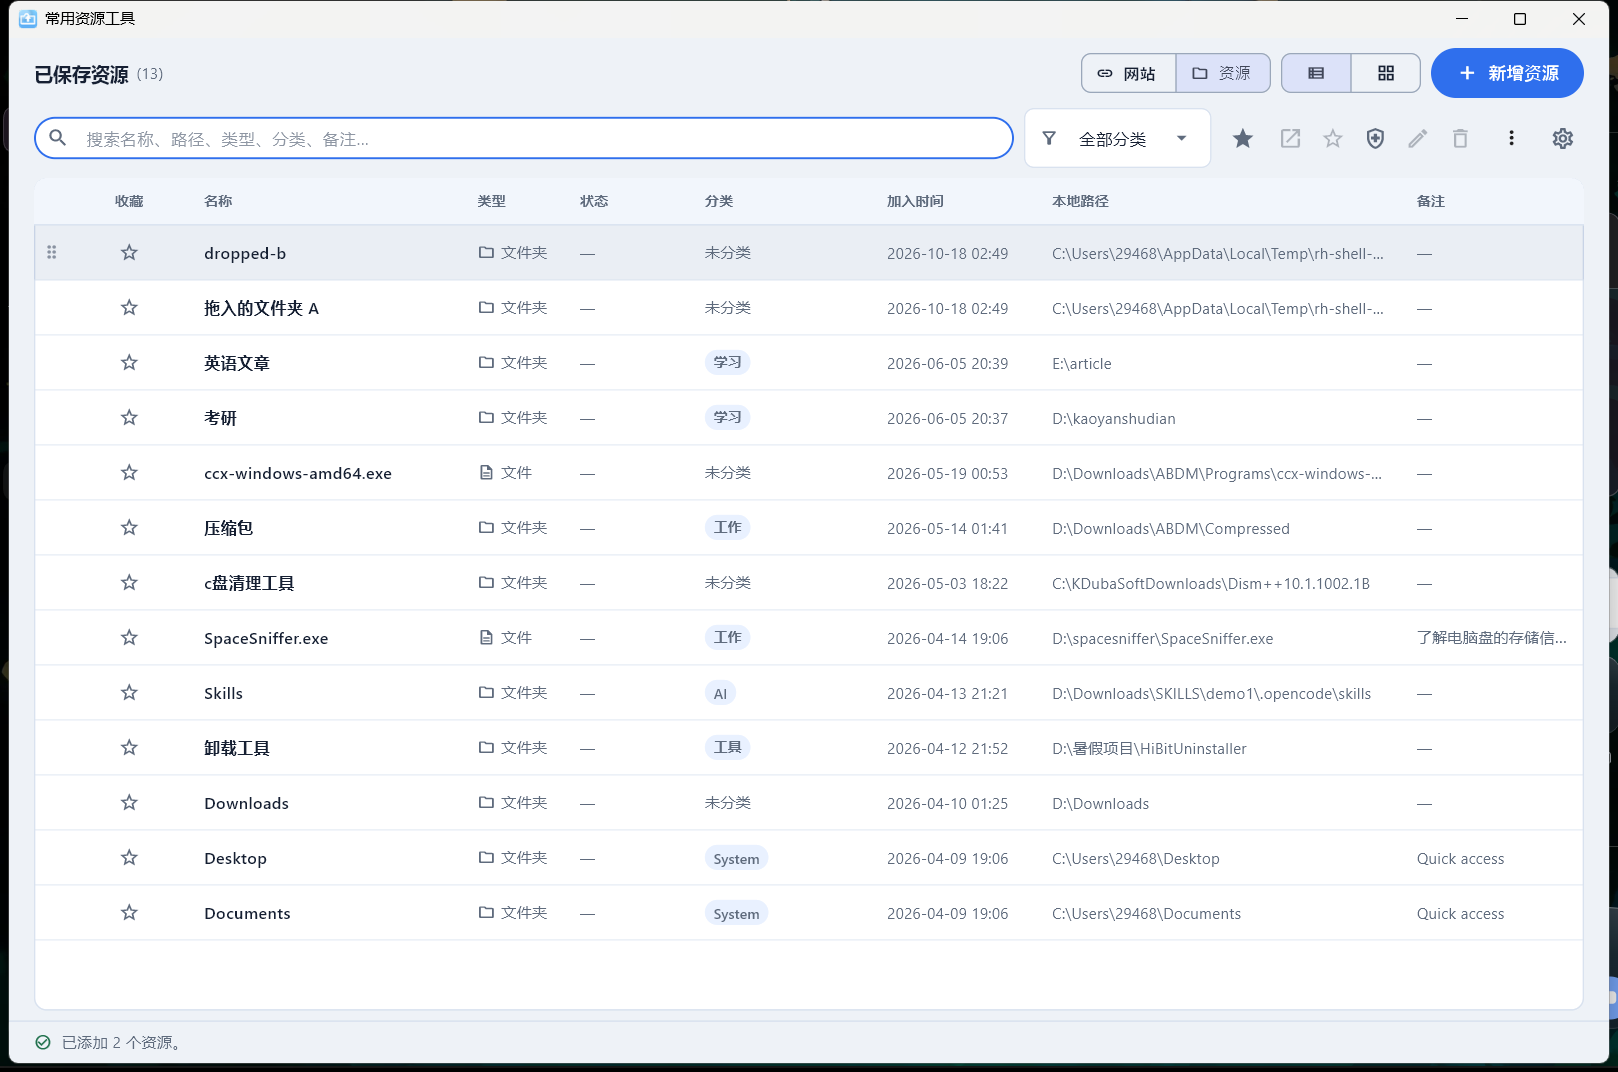
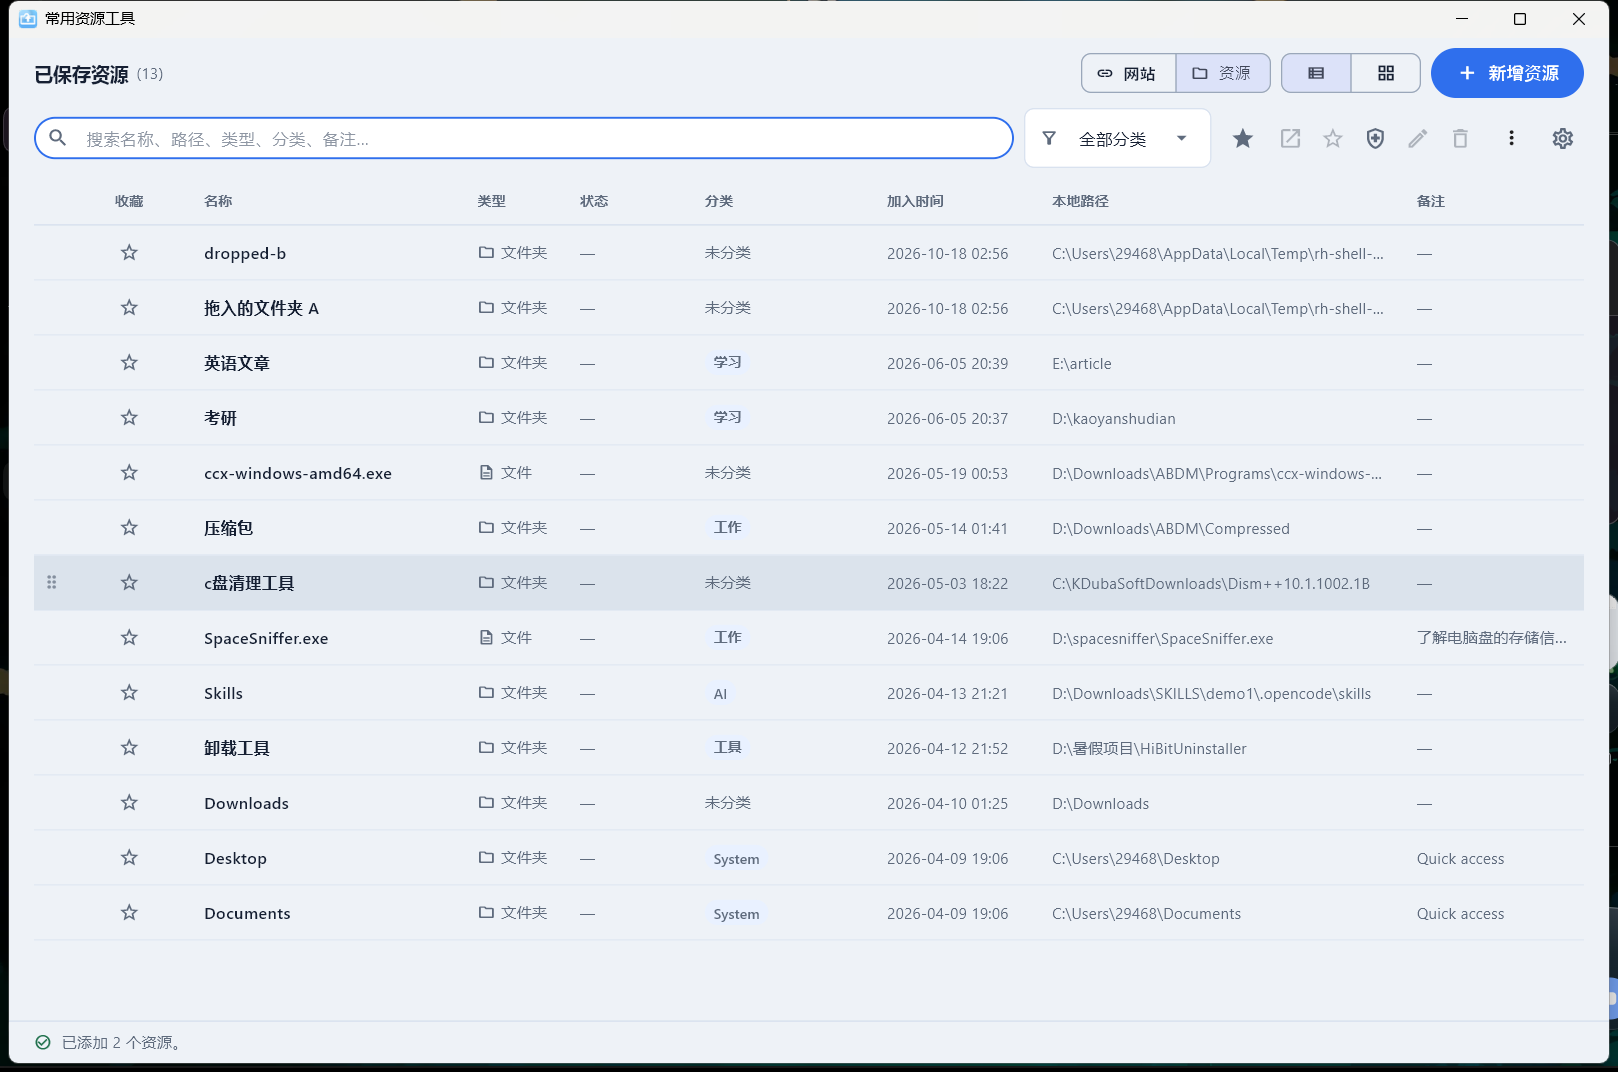
style: align the list view background with the grid view
The list view wrapped the whole table in a white surfaceContainerLowest panel with
a border and rounded corners, so its background differed from the grid view's
page surface. Remove that enclosing card and clip: ResourceTable is now just a
header (page surface + bottom hairline) over the rows, which stay transparent
except for hover/selection/missing-path states.

The list and grid now share the same page background; hierarchy comes from the
header hairline and row dividers, matching the M3 rule used elsewhere. Docs:
phase13-list-surface.md, README/memory updates and a real-device screenshot.
Tests: Flutter 50/50; shell QA 9/9.

diff --git a/app/lib/widgets/resource_table.dart b/app/lib/widgets/resource_table.dart
@@ -207,17 +207,12 @@ class ResourceTable extends StatelessWidget {
     final ColorScheme scheme = Theme.of(context).colorScheme;
     final List<_Column> columns = _columns(context);
 
-    return DecoratedBox(
-      decoration: BoxDecoration(
-        color: scheme.surfaceContainerLowest,
-        borderRadius: AppRadius.mdAll,
-        border: Border.all(color: scheme.outlineVariant),
-      ),
-      child: ClipRRect(
-        borderRadius: AppRadius.mdAll,
-        child: Column(
-          children: <Widget>[
-            _TableHeader(columns: columns),
+    // No enclosing card: like the grid view, the list sits directly on the
+    // page surface and only rows/selection paint a fill. Hierarchy comes from
+    // the header hairline and row dividers.
+    return Column(
+      children: <Widget>[
+        _TableHeader(columns: columns),
             Expanded(
               child: items.isEmpty
                   ? (emptyState ?? const SizedBox.shrink())
@@ -275,8 +270,6 @@ class ResourceTable extends StatelessWidget {
                     ),
             ),
           ],
-        ),
-      ),
     );
   }
 }
@@ -293,7 +286,8 @@ class _TableHeader extends StatelessWidget {
     return Container(
       height: AppSizes.tableHeaderHeight,
       decoration: BoxDecoration(
-        color: scheme.surfaceContainer,
+        // Same page surface as the grid view; only the divider marks the header.
+        color: scheme.surface,
         border: Border(bottom: BorderSide(color: scheme.outlineVariant)),
       ),
       child: Row(

diff --git a/migration/phase13-list-surface.md b/migration/phase13-list-surface.md
@@ -1,0 +1,49 @@
+# Phase 13 — 列表视图改用与网格视图相同的页面底色
+
+- 日期：2026-10-18
+- 触发：用户分别截了列表视图和网格视图，要求"把列表视图这个底色改成网格视图的底色"
+- 范围：只改列表容器/表头底色
+
+---
+
+## 1. 问题
+
+- **网格视图**：卡片（`surfaceContainerLowest`）直接放在页面底色（`scheme.surface`）上，没有外层卡片，空白区域就是页面底色。
+- **列表视图**：整张表格被包在一个 `surfaceContainerLowest` 的白色面板里（带 `outlineVariant` 边框和圆角），
+  表格和空白区域都是白色，和网格视图的页面底色明显不一致，也违反 Phase 7 定下的
+  "不要给每个区域都套卡片，层级用发丝线" 规则。
+
+## 2. 修改（`app/lib/widgets/resource_table.dart`）
+
+- 删除表格外层的 `DecoratedBox`（白底 + 边框 + 圆角）和 `ClipRRect`，直接返回
+  `Column(表头, Expanded(列表或空态))`；
+- 表头底色从 `surfaceContainer` 改为 `scheme.surface`（与页面一致），只保留底部
+  `outlineVariant` 发丝线；
+- 行本身继续保持透明底（hover 用主色淡染、选中 `primaryContainer`、缺失路径用红色淡底），
+  于是行和列表下方空白都落在页面底色上，和网格视图的空白区域完全一致；
+- 空态占位仍居中在页面底色上；表格滚动、拖拽排序、右键菜单、列宽逻辑均未变。
+
+现在两种视图的关系是：
+
+```
+页面 surface
+├─ 网格：白色卡片 + 间距（卡片是内容单元）
+└─ 列表：表头 + 行（行之间发丝线，选中/hover 才有填充）
+```
+
+## 3. 验证
+
+| 项 | 结果 |
+|---|---|
+| `flutter analyze` | 0 issue |
+| Flutter 测试 | **50 / 50**（没有改行为，现有布局/最小窗口测试覆盖） |
+| 实机 | 列表背景与网格视图页面一致（`phase13-list-bg.png`）；表头不再是灰条 |
+| `verify_shell.py` | 9/9 PASS |
+| 发布包 | 47.9 MB，合并进 `release\ResourceHub-Desktop-20261017-1835\`，用户数据未变 |
+
+## 4. 取舍
+
+- 列表行现在是页面底色，只有选中/hover/缺失路径才上色；如果你想要"每行是白色卡片"，
+  可以给 `_TableRow` 的默认背景改成 `surfaceContainerLowest` 并保留行间距，但那会回到
+  "块状列表" 的视觉，和现在的 M3 留白风格不一致。
+- 表格外框和圆角已去掉；如果需要弱边界，可以只在滚动区域加一条发丝分割线。

diff --git a/migration/README.md b/migration/README.md
@@ -18,6 +18,7 @@
 | [`phase10-no-top-bar.md`](phase10-no-top-bar.md) | 删除内容区 56px 顶部栏，设置入口移到工作区工具栏 |
 | [`phase11-toolbar-cleanup.md`](phase11-toolbar-cleanup.md) | 工具栏精简：导出/导入移入「更多」菜单 |
 | [`phase12-controls-polish.md`](phase12-controls-polish.md) | 新增资源按钮按 M3 重做、分类筛选收窄 |
+| [`phase13-list-surface.md`](phase13-list-surface.md) | 列表视图去掉白色面板，使用网格视图同款页面底色 |
 | [`adr/ADR-001-tray-hotkey-ownership.md`](adr/ADR-001-tray-hotkey-ownership.md) | 托盘/热键归属、导入导出入口、数据覆盖风险 |
 | [`adr/ADR-002-native-shell-ownership.md`](adr/ADR-002-native-shell-ownership.md) | Windows 壳层归属（runner vs 后端） |
 
